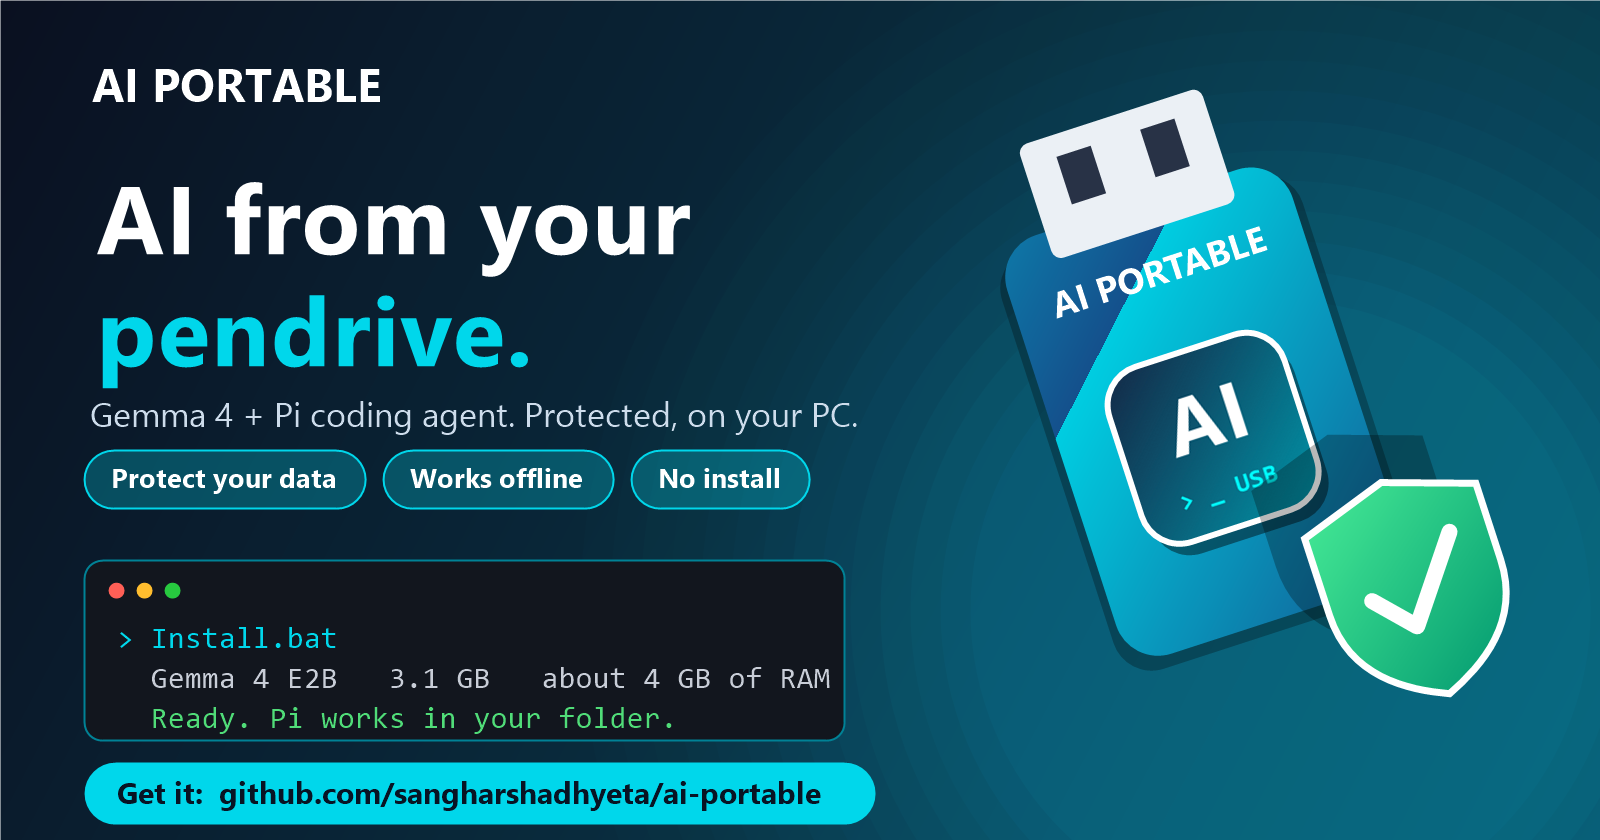
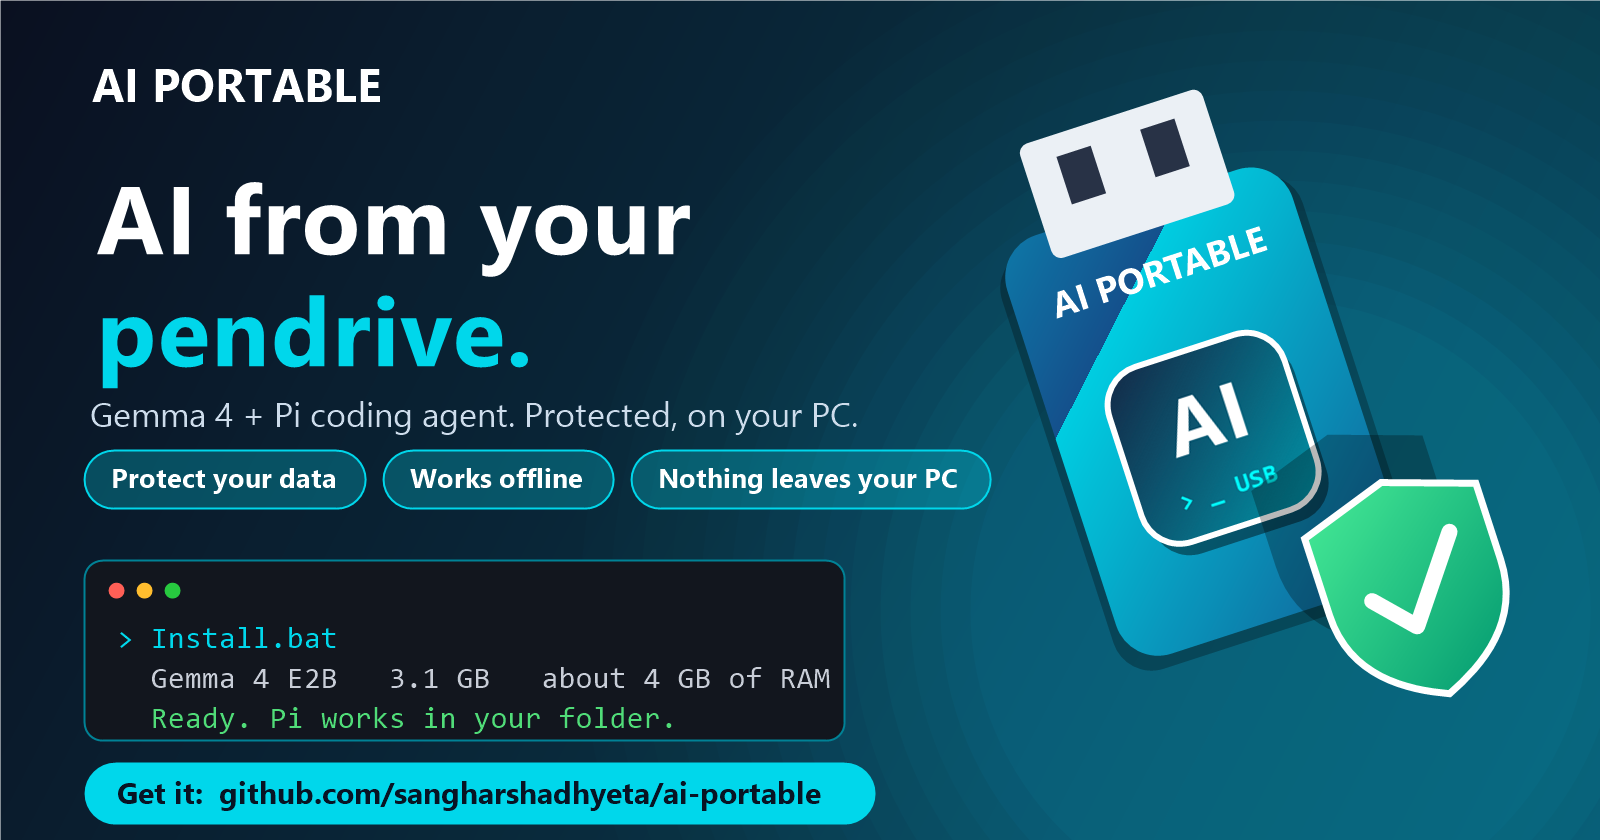
Ad: say Nothing leaves your PC

Changed region(s): [[0.4375, 0.5262, 0.625, 0.619]]

diff --git a/README.md b/README.md
@@ -2,7 +2,7 @@
 
 **A local coding assistant on a pendrive.** Gemma 4 runs on your PC's processor through [llama.cpp](https://github.com/ggml-org/llama.cpp), and the [Pi coding agent](https://www.npmjs.com/package/@earendil-works/pi-coding-agent) works with it in a terminal window. No account, no cloud, no install: everything lives in one folder on the drive. Windows 10/11, 64-bit.
 
-![AI from your pendrive: protect your data, works offline, no install](docs/ad.png)
+![AI from your pendrive: protect your data, works offline, nothing leaves your PC](docs/ad.png)
 
 ## Safety first: it runs with protection
 
